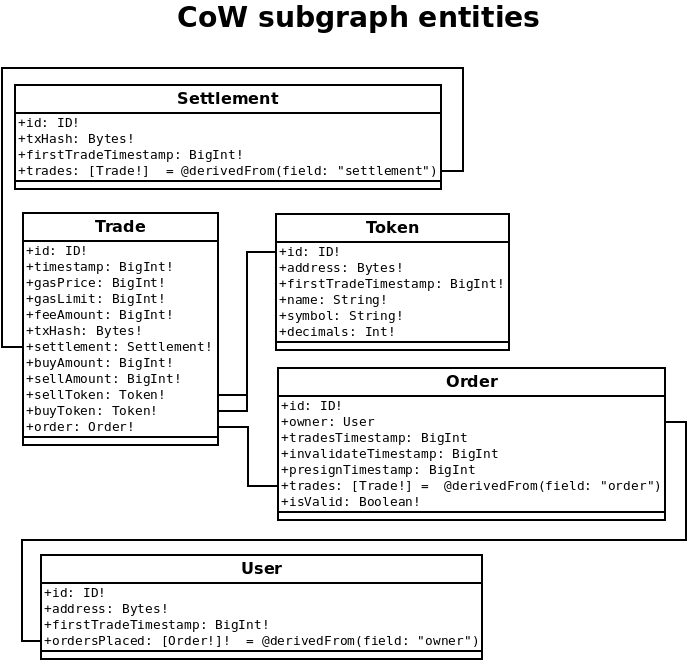
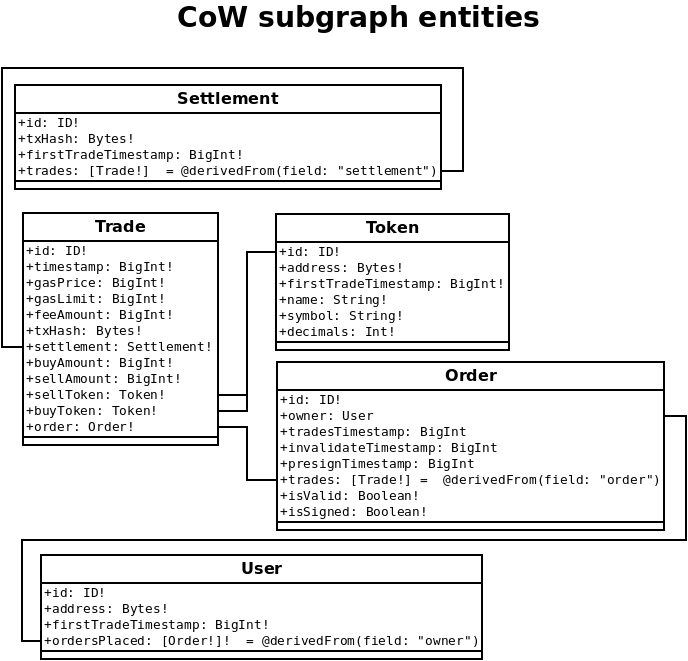
Adding minor fixes and handling signed event param

Changed region(s): [[0.3663, 0.5446, 1.0, 0.8169]]

diff --git a/src/modules/orders.ts b/src/modules/orders.ts
@@ -20,11 +20,12 @@ export namespace orders {
         return order as Order
     }
 
-    export function preSig(orderId: string, owner: string, timestamp: BigInt): Order {
+    export function setPresignature(orderId: string, owner: string, timestamp: BigInt, signed: boolean): Order {
 
         let order = getOrCreateOrder(orderId, owner)
 
         order.presignTimestamp = timestamp
+        order.isSigned = signed
 
         return order as Order
     }
@@ -44,6 +45,7 @@ export namespace orders {
         if (!order) {
             order = new Order(orderId)
             order.isValid = true
+            order.isSigned = false
         } 
 
         order.owner = owner

diff --git a/src/mapping.ts b/src/mapping.ts
@@ -25,8 +25,9 @@ export function handlePreSignature(event: PreSignature): void {
   let ownerAddress = event.params.owner
   let owner = ownerAddress.toHexString()
   let timestamp = event.block.timestamp
+  let signed = event.params.signed
 
-  let order = orders.preSig(orderUid, owner, timestamp)
+  let order = orders.setPresignature(orderUid, owner, timestamp, signed)
 
   order.save()
 
